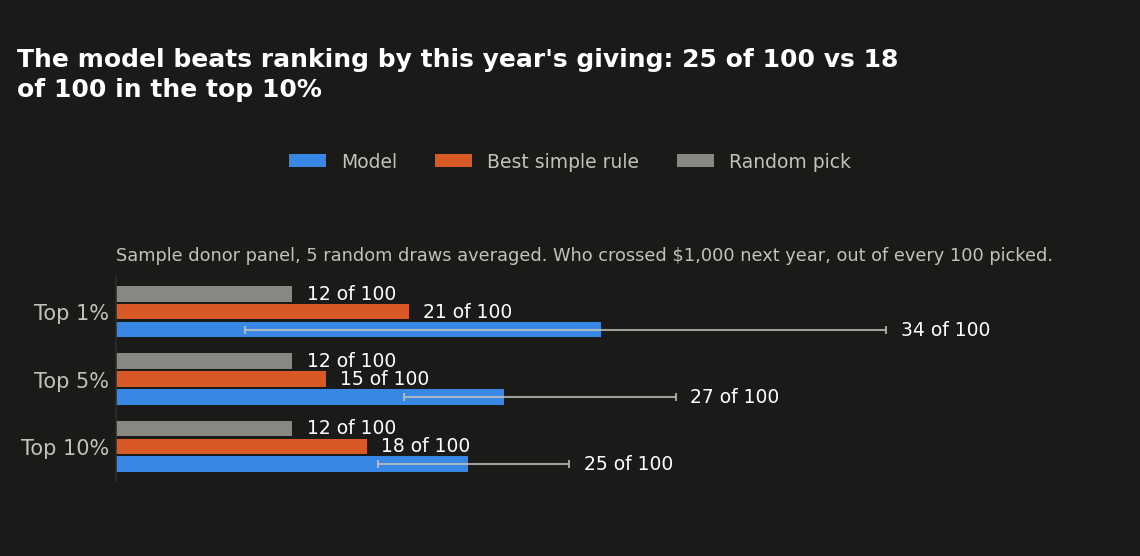
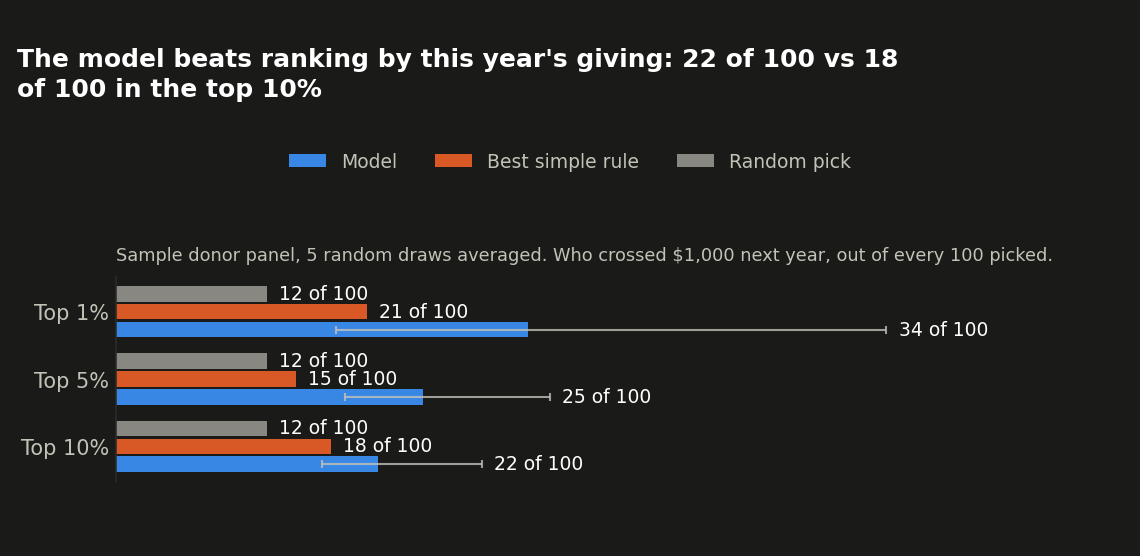
Fix fiscal_year leaking into the synthetic $1K upgrade benchmark (#283)
bench_upgrade trained MajorGiftClassifier on every numeric snapshot
column, including the raw fiscal_year label, unlike the KDD98 upgrade
bench and score_upgrade_prospects, which already exclude it. Regenerate
the upgrade results page and results.json with the fix: the synthetic
top-10% hit rate moves from 24.9% to 21.6% (rule 17.7%, random 12.5%),
still a win on this sample, just a smaller one. KDD98 numbers unchanged.

diff --git a/scripts/benchmark_models_vs_baselines.py b/scripts/benchmark_models_vs_baselines.py
@@ -541,7 +541,10 @@ def bench_upgrade(
             )
         if snaps.empty or snaps["fiscal_year"].nunique() < 2:
             continue
-        feature_cols = [c for c in snaps.columns if c != "target" and pd.api.types.is_numeric_dtype(snaps[c])]
+        feature_cols = [
+            c for c in snaps.columns
+            if c not in ("target", "fiscal_year") and pd.api.types.is_numeric_dtype(snaps[c])
+        ]
         X = snaps[feature_cols].to_numpy(dtype="float64")
         y = snaps["target"].to_numpy()
         fy = snaps["fiscal_year"].to_numpy()

diff --git a/docs/results/upgrade.md b/docs/results/upgrade.md
@@ -10,7 +10,7 @@ try it on your own file before trusting either number.**
     what mid-level donors actually did in fiscal year 2022 (1 July 2021 to 30 June 2022),
     specifically which of them crossed $1,000 for the first time.
 
-    Of our top 10% of picks, 25 out of every 100 crossed $1,000. Ranking by this year's giving
+    Of our top 10% of picks, 22 out of every 100 crossed $1,000. Ranking by this year's giving
     total alone found 18 out of every 100. Picking at random finds about 12 out of every 100.
 
     ![Model vs. best simple rule vs. random, top 1/5/10% of picks](../assets/results/upgrade_topn.png#only-light)
@@ -27,7 +27,7 @@ try it on your own file before trusting either number.**
     total giving instead would *also* have found 21 at this particular draw, a tie. Picking 104
     of them at random would find about 14.
 
-    **Why this number is not the 25-vs-18 headline above.** The chart above is the average of
+    **Why this number is not the 22-vs-18 headline above.** The chart above is the average of
     five draws, scored with the benchmark's own feature set built specifically to compare against
     the rule; this worked example runs the actual public `score_upgrade_prospects` function
     end to end on one of those same five draws (the first), which has its own feature set and

diff --git a/CHANGELOG.md b/CHANGELOG.md
@@ -6,6 +6,17 @@ Format: [Keep a Changelog](https://keepachangelog.com/en/1.1.0/)
 ## [Unreleased]
 
 ### Fixed
+- `scripts/benchmark_models_vs_baselines.py`'s synthetic `$1K upgrade` bench
+  (`bench_upgrade`) trained `MajorGiftClassifier` on every numeric snapshot
+  column including the raw `fiscal_year` label, unlike the KDD98 upgrade
+  bench and `score_upgrade_prospects`, both of which already drop it. The
+  model could partly key on which split a row came from rather than who
+  upgrades. `fiscal_year` is now excluded there too. Regenerated
+  `docs/assets/results/results.json` and the upgrade results page: the
+  synthetic $1K upgrade top-10% hit rate moves from 24.9% to 21.6% model
+  (rule stays 17.7%, random 12.5%); still a win, just a smaller one. The
+  KDD98 upgrade numbers are unchanged, since that bench already excluded
+  `fiscal_year`.
 - Results-page charts (`docs/results/*.md`, the homepage, Start Here) were
   baked as light-background PNGs only, so on the site's default dark theme
   each one rendered as a bright rectangle. `scripts/make_results_pages.py`
